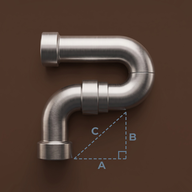
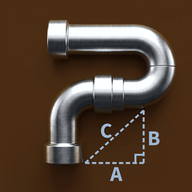
Chrome on deep bronze, and a P that fills the launcher window
On the phone the mark sat small in its tile and the triangle could not be
seen. Three changes in tools/icons.py.

Every masked format is now fitted by the smallest circle round the pipe and
triangle, not by their bounding box, so the P fills the 66dp window a launcher
shows as far as it can without a fitting being cut off. The full-bleed icon
gets the same fit at a larger radius.

The ground is re-tinted deep bronze and the pipe pushed to chrome. Pipe and
ground are told apart by warmth, the ground is scaled in proportion so its
shadows survive, and the steel gets a harder tone curve.

The triangle and its letters are lifted off the ground and drawn again in
light slate blue: sides dashed at four times the render's hairline, letters
in the app's own Source Sans 3 Bold a size up, clear of the dashes.

app.json's adaptive background follows the ground to #4A2C14.

Claude-Session: https://claude.ai/code/session_01Vw5LbumMFGBTdmd1EaPH5V

diff --git a/tools/icons.py b/tools/icons.py
@@ -1,40 +1,53 @@
 """Launcher assets from the render.
 
 The mark is the render at assets/source/mark.jpg: a P of brushed pipe on a
-brown ground with a dimension triangle beside it. Two things change on the way
-to the launcher; everything else is cropping.
+brown ground with a dimension triangle beside it. Four things change on the
+way to the launcher; everything else is cropping.
 
-The triangle's sides go dashed. The render draws them as hairlines, and a
-hairline is gone by 48px. The sides are lifted off the ground (a diffusion
-fill over the band they sit in, so the ground under them matches the ground
-beside them) and drawn again as dashes at twice the weight, in the ink the
-render mixed for them. The right-angle mark is redrawn at the same weight; the
-letters are left alone.
+The ground goes deep bronze and the pipe goes chrome. The render's ground is
+a muted brown and its steel a soft grey, and at 48px the two run together.
+Pipe and ground are told apart by warmth (the ground is a third redder than
+it is blue, the steel is neutral), the ground is re-tinted in proportion so
+its soft shadows survive, and the steel gets a harder tone curve.
+
+The triangle and its letters are drawn again. The render draws the sides as
+hairlines and the letters small, and both are gone by 48px. They are lifted
+off the ground (a diffusion fill over the band they sit in) and drawn again
+in light slate blue: the sides dashed at four times the weight, the letters
+in the app's own bold sans a size up.
 
 The rounded corners are squared off. The render comes with its corners cut to
 white, and a launcher icon has to be full-bleed: iOS and Android each mask it
-themselves, and a pre-cut corner shows as a notch inside theirs. The ground is
-carried out to the edge along each corner's radius.
+themselves, and a pre-cut corner shows as a notch inside theirs.
+
+And the mark is fitted to the circle a launcher shows, not to its bounding
+box. The smallest circle round the pipe and triangle is found and scaled to
+the safe circle of each masked format, which is how far a P can fill a round
+window without its fittings being cut off.
 
     python3 tools/icons.py
 """
 from pathlib import Path
 
 import numpy as np
-from PIL import Image, ImageDraw
+from PIL import Image, ImageDraw, ImageFont
 
 HERE = Path(__file__).resolve().parent.parent
 SRC = HERE / 'assets/source/mark.jpg'
+FONT = HERE / 'node_modules/@expo-google-fonts/source-sans-3/700Bold/SourceSans3_700Bold.ttf'
 
-INK = (100, 125, 147)      # the dimension's blue-grey, sampled off the render
-GROUND = (77, 53, 41)      # the brown behind everything; app.json carries it too
+INK = (157, 183, 211)      # light slate blue, for the dimension and its letters
+GROUND = (74, 44, 20)      # deep bronze; app.json carries it as #4A2C14
+BROWN = (77, 53, 41)       # the render's flat ground, which GROUND replaces
 
 # The render's frame is 2000px. These are centrelines, measured off it.
 CORNER = 304                              # radius the render cut its corners to
 FOOT, HEEL, TOP = (772, 1654), (1312, 1654), (1312, 1168)   # right angle at HEEL
 BOX = 76                                  # right-angle mark, sides along the legs
 HAIR = 5                                  # the render's line width
-LINE, DASH, GAP = 10, 32, 18              # what gets drawn instead
+LINE, DASH, GAP = 18, 40, 22              # what gets drawn instead
+LETTERS = {'C': (966, 1356), 'B': (1406, 1426), 'A': (1059, 1756)}   # centres
+LETTER_SIZE = 196                         # cap height about 130px
 SS = 4                                    # supersample for the drawn lines
 
 
@@ -82,25 +95,53 @@ def lines():
     return sides, box
 
 
+def grow(mask, by):
+    for _ in range(by):
+        g = mask.copy()
+        g[1:] |= mask[:-1]
+        g[:-1] |= mask[1:]
+        g[:, 1:] |= mask[:, :-1]
+        g[:, :-1] |= mask[:, 1:]
+        mask = g
+    return mask
+
+
 def lift(a):
-    """Fill the band under the render's lines from the ground either side."""
+    """Fill the ground back in under the render's lines and letters."""
     sides, box = lines()
-    x0, y0, x1, y1 = FOOT[0] - 40, TOP[1] - 40, HEEL[0] + 40, HEEL[1] + 40
+    x0, y0, x1, y1 = 720, 1120, 1480, 1800
     yy, xx = np.mgrid[y0:y1, x0:x1].astype(float)
+    crop = a[y0:y1, x0:x1]
     band = np.zeros(yy.shape, bool)
     for p, q in sides + box:
         band |= seg_dist(xx, yy, p, q) <= HAIR / 2 + 6
-    crop = a[y0:y1, x0:x1].astype(float)
+    # The letters, by their blue-grey ink, grown to take the soft edge with them.
+    band |= grow((crop[..., 2] - crop[..., 0] > 12) & (crop[..., 2] > 70), 5)
     fixed = ~band
     fill = crop.copy()
     fill[band] = crop[fixed].mean(0)
-    for _ in range(400):
+    for _ in range(600):
         avg = (np.roll(fill, 1, 0) + np.roll(fill, -1, 0) + np.roll(fill, 1, 1) + np.roll(fill, -1, 1)) / 4
         fill[band] = avg[band]
     rng = np.random.default_rng(304)
     fill[band] += rng.normal(0, 0.55, (band.sum(), 3))
-    a[y0:y1, x0:x1] = np.clip(np.rint(fill), 0, 255)
+    a[y0:y1, x0:x1] = np.clip(fill, 0, 255)
     return a
+
+
+def steel_mask(a):
+    """1 on the pipe, 0 on the ground, by warmth: red over blue as a share of red."""
+    warmth = (a[..., 0] - a[..., 2]) / np.maximum(a[..., 0], 1)
+    return np.clip((0.30 - warmth) / 0.15, 0, 1)
+
+
+def retint(a):
+    """Deep bronze ground, chrome pipe."""
+    steel = steel_mask(a)[..., None]
+    ground = a * (np.array(GROUND, float) / np.array(BROWN, float))
+    lum = a @ np.array([0.299, 0.587, 0.114])
+    chrome = np.clip(128 + (lum - 120) * 1.45 + 12, 0, 255)[..., None] + np.array([-3, 0, 5], float)
+    return np.clip(ground * (1 - steel) + chrome * steel, 0, 255), steel[..., 0]
 
 
 def dashes(draw, p, q, s):
@@ -122,56 +163,61 @@ def stroke(draw, p, q, s):
                   ((x1 - nx) * s, (y1 - ny) * s), ((x0 - nx) * s, (y0 - ny) * s)], fill=255)
 
 
-def redraw(a):
-    n = a.shape[0]
+def drawn_alpha(n):
+    """Coverage of the dimension: dashed sides, right-angle mark, letters."""
     mask = Image.new('L', (n * SS, n * SS), 0)
     d = ImageDraw.Draw(mask)
-    sides, box = lines()
+    sides, _ = lines()
     for p, q in sides:
         dashes(d, p, q, SS)
     hx, hy = HEEL
-    # The right-angle mark, solid, with square corners where its two sides meet.
     stroke(d, (hx - BOX, hy - LINE / 2), (hx - BOX, hy - BOX), SS)
     stroke(d, (hx - BOX - LINE / 2, hy - BOX), (hx, hy - BOX), SS)
-    alpha = np.asarray(mask.resize((n, n), Image.BOX)).astype(float)[..., None] / 255
-    return a * (1 - alpha) + np.array(INK, float) * alpha
+    font = ImageFont.truetype(str(FONT), LETTER_SIZE * SS)
+    for ch, (cx, cy) in LETTERS.items():
+        l, t, r, b = font.getbbox(ch)
+        d.text(((cx * SS) - (l + r) / 2, (cy * SS) - (t + b) / 2), ch, font=font, fill=255)
+    return np.asarray(mask.resize((n, n), Image.BOX)).astype(float) / 255
 
 
-def content_box(a):
-    """Where the mark is, by how far the pixels sit from the ground."""
-    d = np.abs(a - np.array(GROUND, float)).sum(-1) > 18
-    ys, xs = np.nonzero(d)
-    return xs.min(), ys.min(), xs.max(), ys.max()
+def enclosing_circle(pts, rounds=3000):
+    """Smallest circle round the points, to a fraction of a pixel."""
+    c = pts.mean(0)
+    for i in range(1, rounds + 1):
+        d = np.hypot(*(pts - c).T)
+        c = c + (pts[d.argmax()] - c) / (i + 1)
+    return c, np.hypot(*(pts - c).T).max()
 
 
-def full(img, size):
-    return img.resize((size, size), Image.LANCZOS)
-
-
-def windowed(img, box, size, radius):
-    """The mark centred on a brown canvas, its box's corners inside a circle of
-    `radius` (as a fraction of `size`): the part a masked launcher will show."""
-    x0, y0, x1, y1 = box
-    w, h = x1 - x0, y1 - y0
-    s = radius * size * 2 / np.hypot(w, h)
+def fit(img, circle, size, radius, feather=0.06):
+    """The mark on a bronze canvas, its enclosing circle scaled to `radius`
+    (a fraction of `size`) and centred: the part a masked launcher shows."""
+    (cx, cy), r = circle
+    s = radius * size / r
     n = img.width
     scaled = img.resize((round(n * s), round(n * s)), Image.LANCZOS)
     canvas = Image.new('RGB', (size, size), GROUND)
-    # Feathered edge so the scaled render blends into the flat canvas ground.
+    ox, oy = round(size / 2 - cx * s), round(size / 2 - cy * s)
+    # Feather only the edges that land inside the canvas, so the scaled render
+    # blends into the flat ground there and is left alone where it overflows.
     m = scaled.width
-    feather = round(m * 0.06)
-    e = np.minimum(np.minimum(np.arange(m), np.arange(m)[::-1]) / feather, 1)
-    alpha = Image.fromarray((np.minimum.outer(e, e) * 255).astype(np.uint8))
-    ox = round(size / 2 - (x0 + w / 2) * s)
-    oy = round(size / 2 - (y0 + h / 2) * s)
+    f = max(1, round(m * feather))
+    def ramp(o):
+        e = np.ones(m)
+        if o > 0:
+            e = np.minimum(e, np.arange(m) / f)
+        if o + m < size:
+            e = np.minimum(e, np.arange(m)[::-1] / f)
+        return np.minimum(e, 1)
+    alpha = Image.fromarray((np.minimum.outer(ramp(oy), ramp(ox)) * 255).astype(np.uint8))
     canvas.paste(scaled, (ox, oy), alpha)
     return canvas
 
 
-def plated(img, size, plate=0.90, radius=0.224):
-    """The full icon on a rounded plate with transparent corners, for the splash."""
+def plated(tile, size, plate=0.90, radius=0.224):
+    """The icon on a rounded plate with transparent corners, for the splash."""
     m = round(size * plate)
-    tile = full(img, m)
+    tile = tile.resize((m, m), Image.LANCZOS)
     mask = Image.new('L', (m * SS, m * SS), 0)
     ImageDraw.Draw(mask).rounded_rectangle([0, 0, m * SS - 1, m * SS - 1], radius=m * SS * radius, fill=255)
     tile.putalpha(mask.resize((m, m), Image.BOX))
@@ -182,29 +228,40 @@ def plated(img, size, plate=0.90, radius=0.224):
 
 def main():
     a = np.asarray(Image.open(SRC).convert('RGB')).astype(float)
+    n = a.shape[0]
     a = square_corners(a)
     a = lift(a)
-    a = redraw(a)
-    box = content_box(a)
+    a, steel = retint(a)
+    ink = drawn_alpha(n)
+    a = a * (1 - ink[..., None]) + np.array(INK, float) * ink[..., None]
     img = Image.fromarray(np.clip(np.rint(a), 0, 255).astype(np.uint8))
 
+    # The circle round what is drawn: steel, dashes and letters. The soft
+    # shadow is ground and may fall outside it.
+    content = (steel > 0.5) | (ink > 0.3)
+    ys, xs = np.nonzero(content[::4, ::4])
+    circle = enclosing_circle(np.stack([xs * 4.0, ys * 4.0], 1))
+
+    icon = fit(img, circle, 1024, 0.46)
     out = {
-        'assets/icon.png': full(img, 1024),
+        'assets/icon.png': icon,
         # Android shows the middle 66dp of a 108dp foreground; on a circle
-        # launcher that window is a circle of radius 0.306. Keep a hair inside.
-        'assets/adaptive-icon.png': windowed(img, box, 1024, 0.29),
-        'assets/splash-icon.png': plated(img, 1024),
-        'assets/favicon.png': full(img, 64),
-        'public/icon-192.png': full(img, 192),
-        'public/icon-512.png': full(img, 512),
-        'public/apple-touch-icon.png': full(img, 180),
+        # launcher that window is a circle of radius 0.306.
+        'assets/adaptive-icon.png': fit(img, circle, 1024, 0.305),
+        'assets/splash-icon.png': plated(icon, 1024),
+        'assets/favicon.png': icon.resize((64, 64), Image.LANCZOS),
+        'public/icon-192.png': icon.resize((192, 192), Image.LANCZOS),
+        'public/icon-512.png': icon.resize((512, 512), Image.LANCZOS),
+        'public/apple-touch-icon.png': icon.resize((180, 180), Image.LANCZOS),
         # A maskable icon's safe zone is a circle of radius 0.40.
-        'public/icon-maskable-512.png': windowed(img, box, 512, 0.38),
+        'public/icon-maskable-512.png': fit(img, circle, 512, 0.39),
     }
     for name, image in out.items():
         path = HERE / name
         image.save(path, optimize=True)
         print(f'{name:34} {path.stat().st_size / 1024:6.1f} KB')
+    (cx, cy), r = circle
+    print(f'mark circle: centre ({cx:.0f}, {cy:.0f}) radius {r:.0f} of {n}')
 
 
 if __name__ == '__main__':

diff --git a/tools/README.md b/tools/README.md
@@ -7,16 +7,22 @@
 python3 tools/icons.py
 ```
 
-The render arrives with white rounded corners and a hairline triangle. The
-tool squares the corners off (a launcher icon is full-bleed; the platforms cut
-their own corners) and redraws the triangle's sides as dashes at a weight that
-survives 48px, leaving the pipe and the letters as rendered.
+The render arrives with white rounded corners, a muted brown ground and a
+hairline triangle. The tool squares the corners off (a launcher icon is
+full-bleed; the platforms cut their own corners), re-tints the ground deep
+bronze and the pipe chrome, and redraws the triangle and its letters in light
+slate blue at a weight that survives 48px. The letters use the app's own
+Source Sans 3 Bold from `node_modules`, so run `npm install` first.
+
+Every masked format is fitted by the smallest circle round the mark, not its
+bounding box, so the P fills a round launcher window as far as it can without
+a fitting being cut off.
 
 Outputs, all regenerated from one source so they never drift apart:
 
 | File | Size | Notes |
 | --- | --- | --- |
-| `assets/icon.png` | 1024 | Full-bleed launcher icon |
+| `assets/icon.png` | 1024 | Full-bleed launcher icon, mark circle at 0.46 |
 | `assets/adaptive-icon.png` | 1024 | Android foreground; the mark sits inside the 66dp circle a launcher shows |
 | `assets/splash-icon.png` | 1024 | The icon on a rounded plate, transparent corners |
 | `assets/favicon.png` | 64 | Web |
